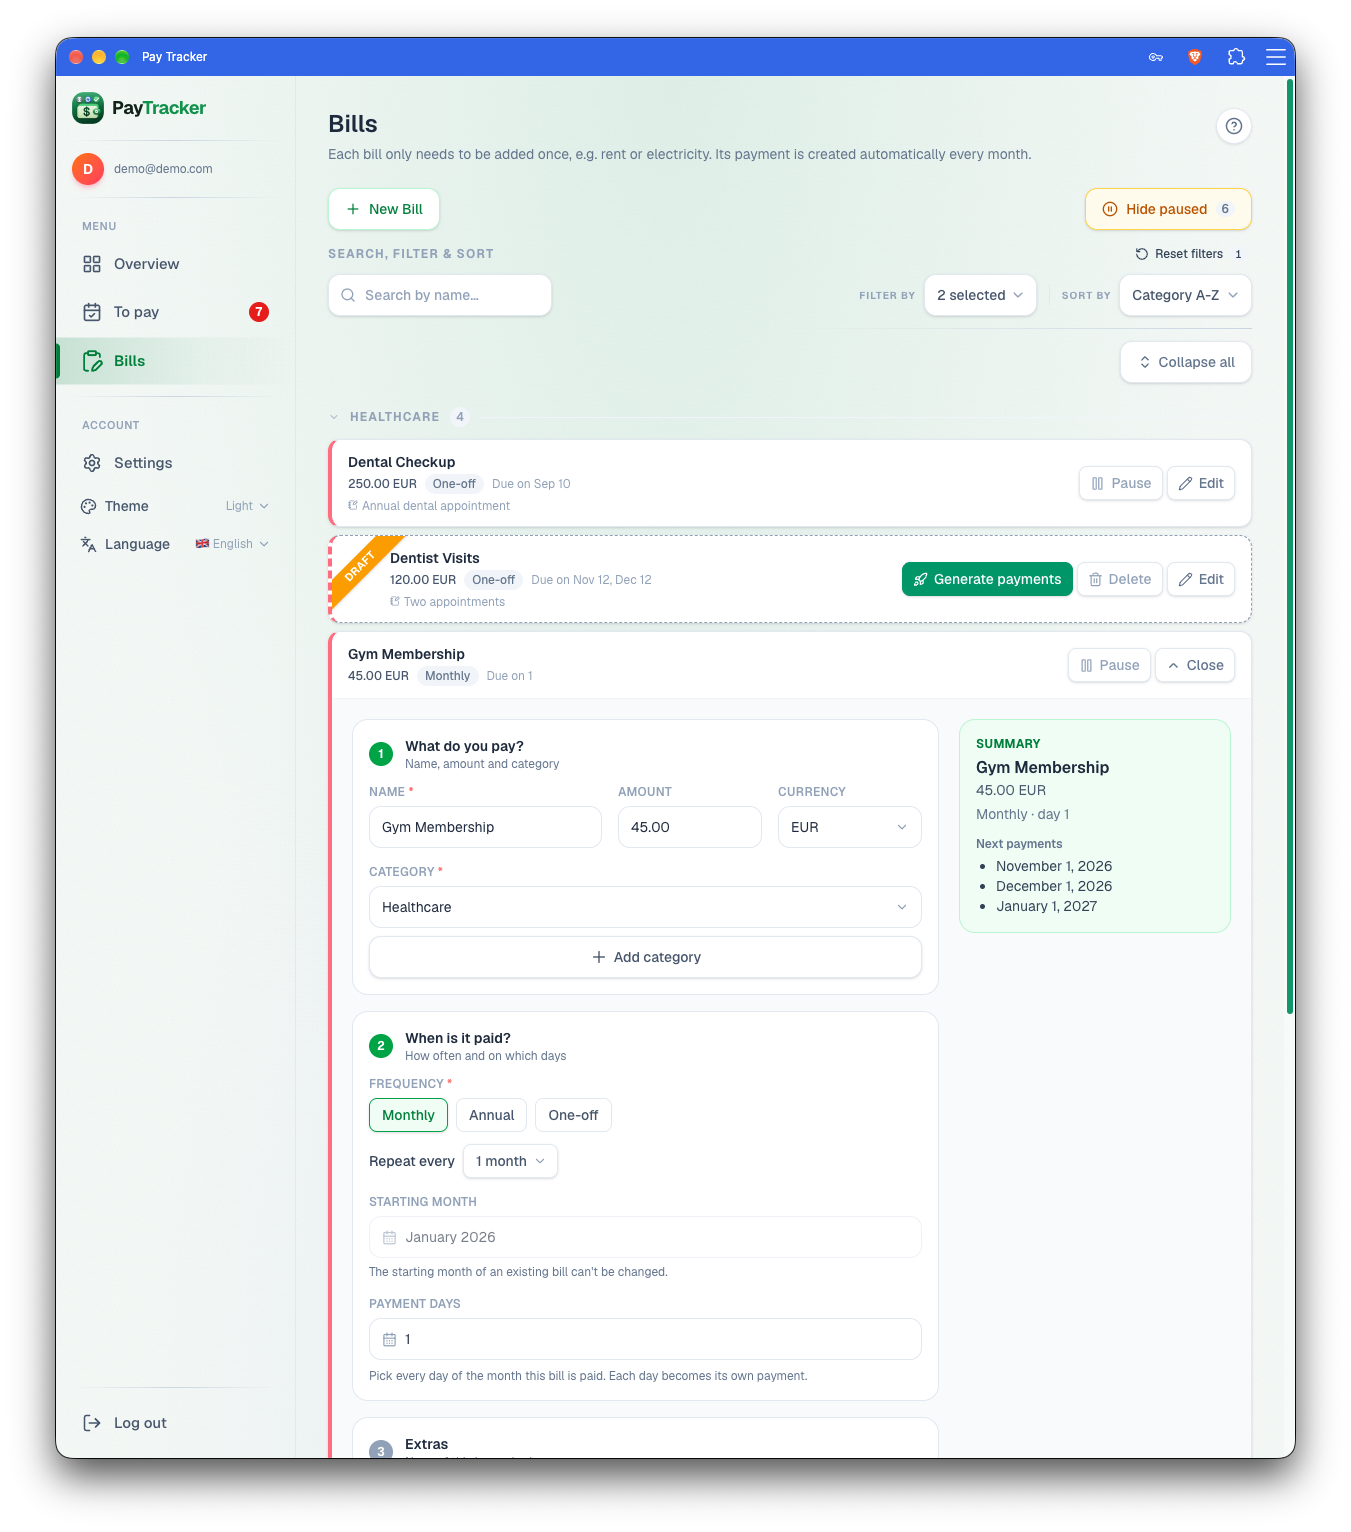
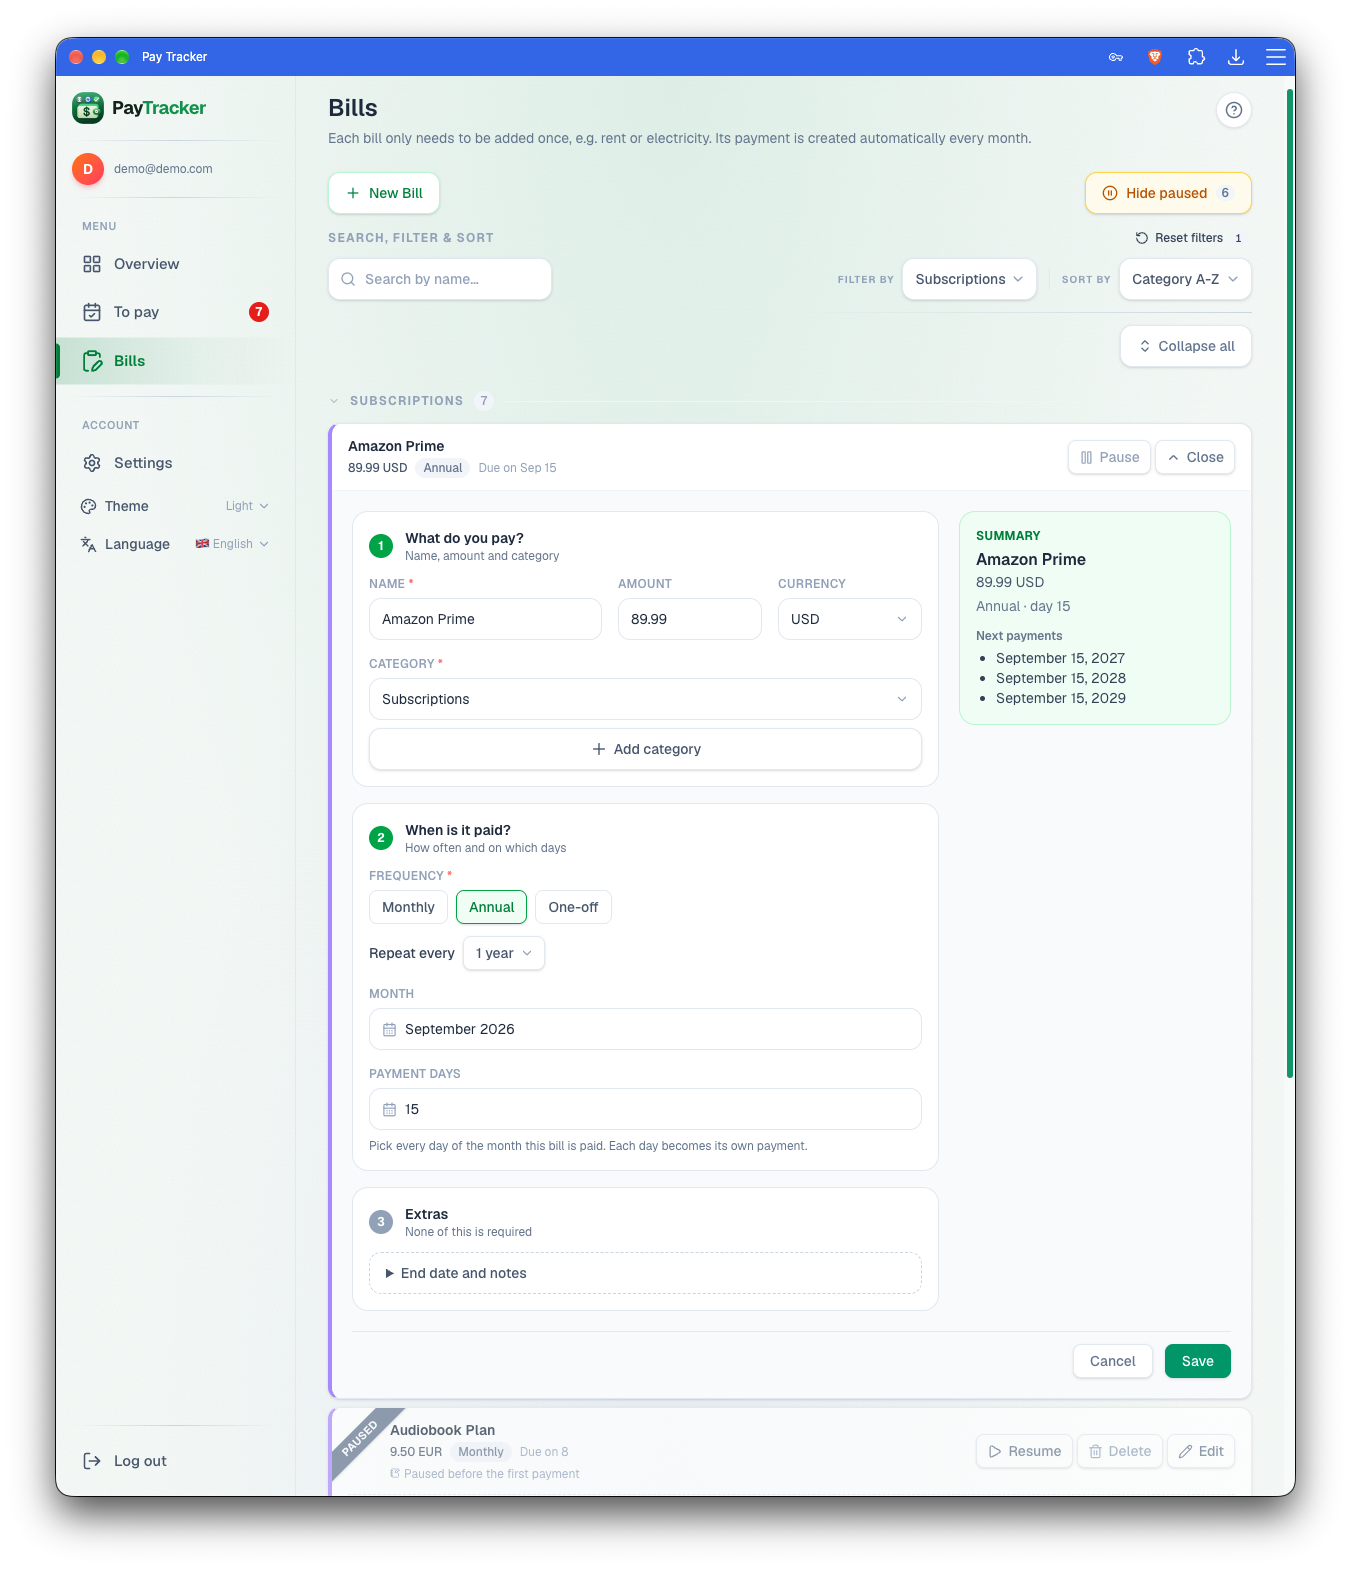
docs(help): FAQ for start page, payment status colors, category archiving

diff --git a/frontend/src/components/help/HelpContent.tsx b/frontend/src/components/help/HelpContent.tsx
@@ -8,7 +8,7 @@ import { resetOnboarding } from "@/components/help/OnboardingChecklist";
 
 const SECTIONS = [
   { key: "bills", items: ["addBill", "draft", "repeat", "editBill", "pause", "resume"] },
-  { key: "payments", items: ["seePayments", "filters", "markPaid", "editPayment", "revert", "deletePayment", "export", "share"] },
+  { key: "payments", items: ["dashboard", "seePayments", "statusColors", "filters", "markPaid", "editPayment", "revert", "deletePayment", "export", "share"] },
   { key: "settings", items: ["reminders", "backup", "restore", "categories", "language", "account", "install"] },
 ] as const;
 

diff --git a/AGENTS.md b/AGENTS.md
@@ -10,7 +10,7 @@ Pay Tracker is a household bill-tracking PWA. Stack: Next.js 16 (App Router, Typ
 - **Bill and payment state is one column each.** `BillTemplate.status` (draft/active/paused) and `PaymentInstance.hidden` (NULL visible, `user` deleted, `paused` hidden by pausing); never add a second flag next to them.
 - **Migrations run automatically on container start.** `alembic upgrade head` fires in the backend container's start command (`backend/Dockerfile`), before uvicorn. New model changes require a new revision: `docker compose exec backend alembic revision --autogenerate -m "<desc>"`.
 - **i18n has one source: `frontend/messages/`.** Languages live in `locales.json`, strings in `<code>.json`. Backend reads them via `app.core.i18n` (`t()`, `LOCALES`) — never add per-language dicts in Python or a second language list. Adding a language: JSON file + `locales.json` entry + import/map entry in `frontend/src/lib/locales.ts`.
-- **Help/FAQ stays current.** Any user-visible change (new button, flow, setting, renamed label) must update the `Help` strings in all `frontend/messages/*.json` (items + `checklist`) and `SECTIONS` in `frontend/src/components/help/HelpContent.tsx`, in the same change. Reference button/tab names via the `labels` map, never hardcode them.
+- **Help/FAQ stays current.** Any user-visible change (new button, flow, setting, renamed label, status color, dialog) must update the `Help` strings in all `frontend/messages/*.json` (items + `checklist`) and `SECTIONS` in `frontend/src/components/help/HelpContent.tsx`, in the same change. Reference button/tab names via the `labels` map, never hardcode them.
 - **Use SQLAlchemy 2.0 `Mapped[T]` / `mapped_column()` style.** The 1.x `Column()` pattern will pass linting but is wrong for this codebase — see `@backend/app/models/bill.py`.
 
 ## Project Structure
